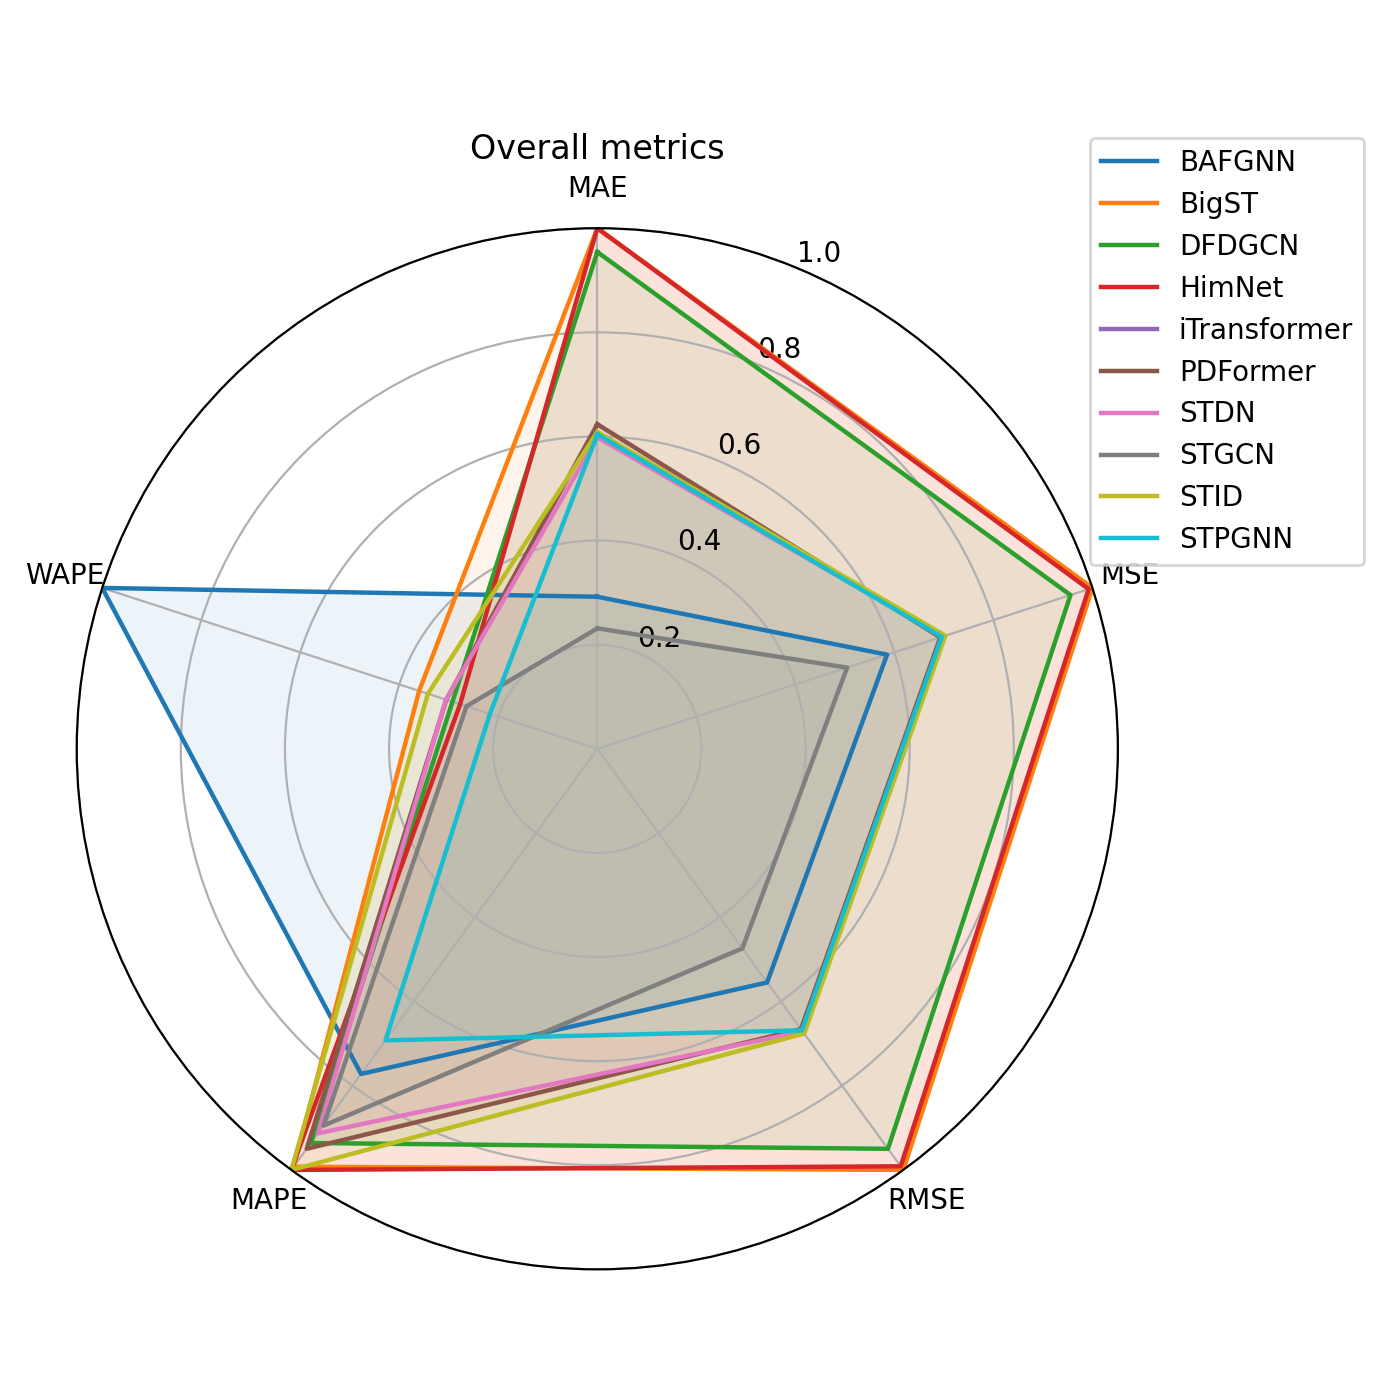
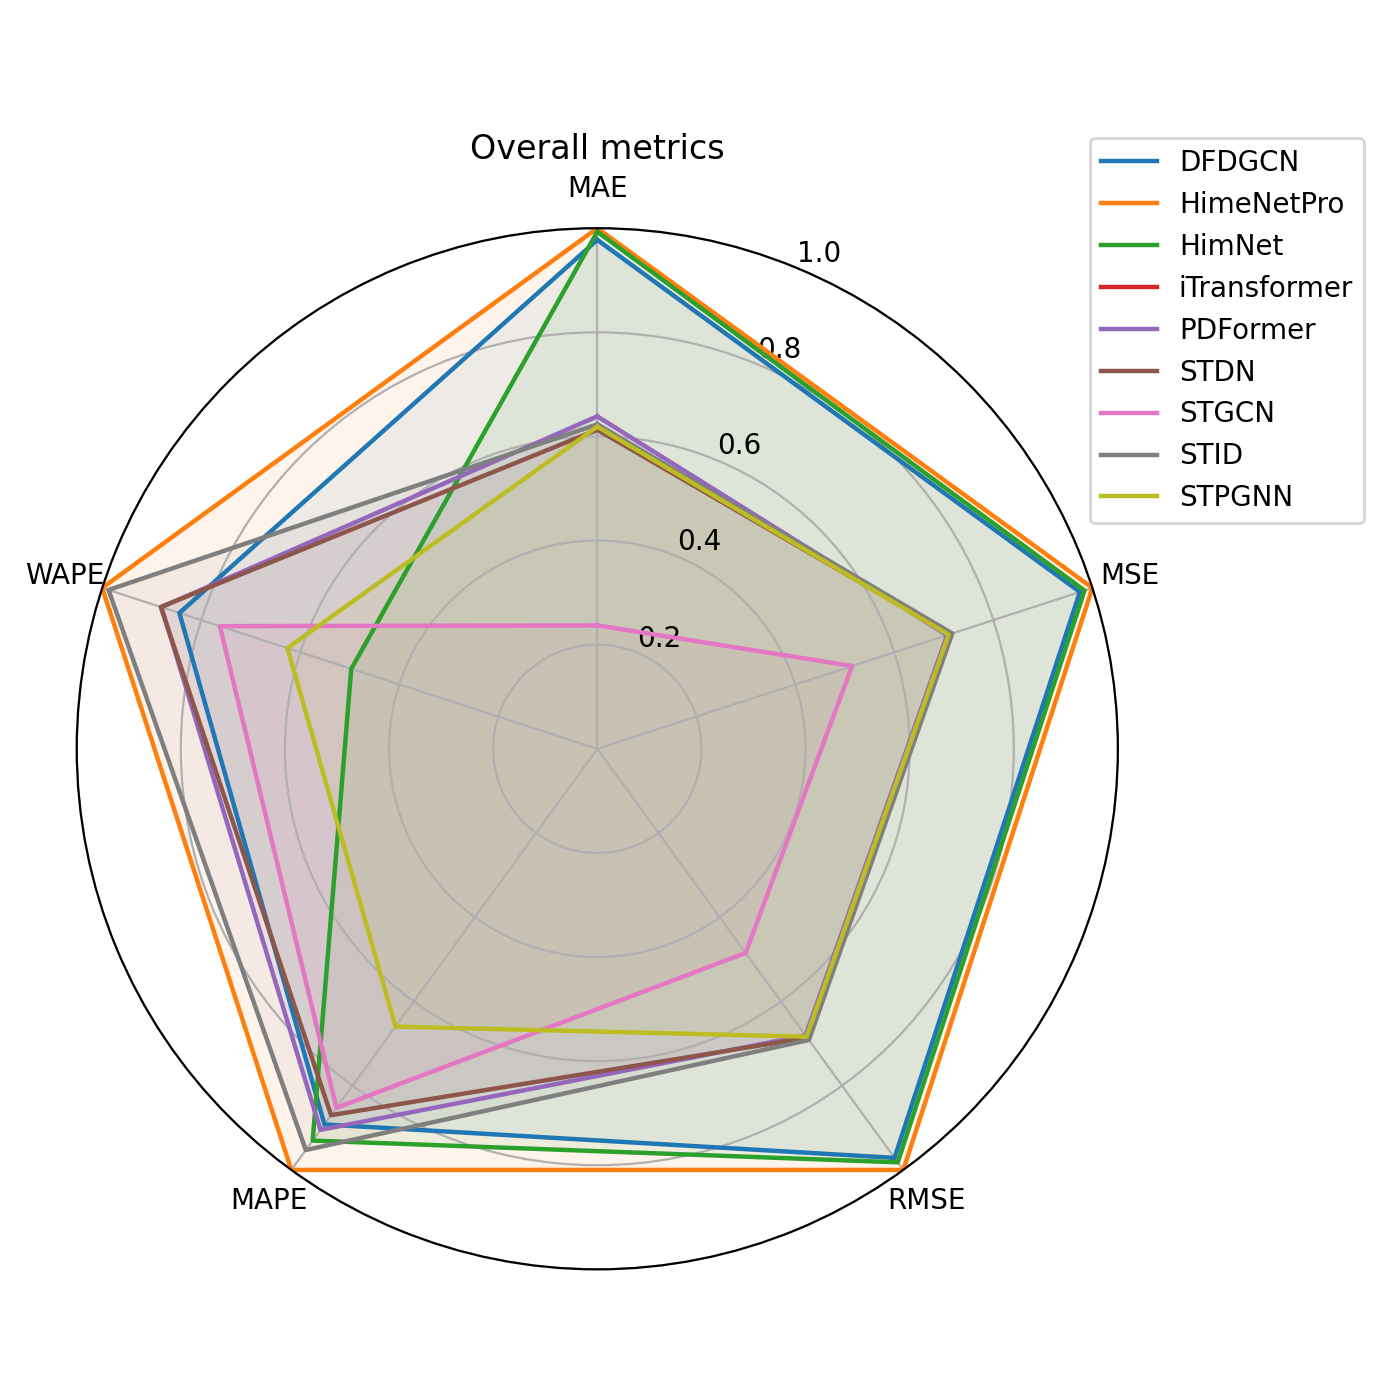
fix: 去掉无用的y_conv以免造成影响

diff --git a/model/HimNet/arch/model/HimNet.py b/model/HimNet/arch/model/HimNet.py
@@ -554,14 +554,14 @@ class HimNet(nn.Module):
     def __init__(
         self,
         num_nodes,
-        input_dim=3,
+        input_dim=1,
         output_dim=1,
         out_steps=12,
         in_steps=12,
         hidden_dim=64,
         num_layers=1,
         cheb_k=2,
-        ycov_dim=2,
+        # ycov_dim=2,
         tod_embedding_dim=8,
         dow_embedding_dim=8,
         node_embedding_dim=16,
@@ -592,7 +592,7 @@ class HimNet(nn.Module):
         self.in_steps = in_steps
         self.num_layers = num_layers
         self.cheb_k = cheb_k
-        self.ycov_dim = ycov_dim
+        # self.ycov_dim = ycov_dim
         self.node_embedding_dim = node_embedding_dim
         self.st_embedding_dim = st_embedding_dim
         self.tf_decay_steps = tf_decay_steps
@@ -634,7 +634,7 @@ class HimNet(nn.Module):
 
         self.decoder = HimDecoder(
             num_nodes=num_nodes,
-            input_dim=output_dim + ycov_dim,
+            input_dim=output_dim,
             output_dim=hidden_dim,
             cheb_k=cheb_k,
             num_layers=num_layers,
@@ -684,13 +684,10 @@ class HimNet(nn.Module):
             self.tf_decay_steps + np.exp(batches_seen / self.tf_decay_steps)
         )
 
-    def forward(self, x, y_cov, labels=None, batches_seen=None):
+    def forward(self, x, labels=None, batches_seen=None):
         """
         x:
             B, T_in, N, input_dim
-
-        y_cov:
-            B, out_steps, N, ycov_dim
 
         labels:
             optional, B, out_steps, N, output_dim
@@ -763,11 +760,7 @@ class HimNet(nn.Module):
         decoder_inputs = []
 
         for t in range(self.out_steps):
-            decoder_input_t = torch.cat(
-                [go, y_cov[:, t, ...]],
-                dim=-1,
-            )
-
+            decoder_input_t = go
             decoder_inputs.append(decoder_input_t)
 
             decoder_input_seq = torch.stack(

diff --git a/model/HimNet/arch/himnet_basicts_arch.py b/model/HimNet/arch/himnet_basicts_arch.py
@@ -33,7 +33,6 @@ class HimNet(nn.Module):
             hidden_dim=int(config.hidden_dim),
             num_layers=int(config.num_layers),
             cheb_k=int(config.cheb_k),
-            ycov_dim=int(config.ycov_dim),
             tod_embedding_dim=int(config.tod_embedding_dim),
             dow_embedding_dim=int(config.dow_embedding_dim),
             node_embedding_dim=int(config.node_embedding_dim),
@@ -72,14 +71,9 @@ class HimNet(nn.Module):
             base = torch.arange(t, device=x.device).view(1, t, 1, 1).expand(b, -1, n, -1)
             tod = (base % self.time_of_day_size) / float(self.time_of_day_size)
             dow = ((base // self.time_of_day_size) % 7).float()
-        x_in = torch.cat([value, tod.to(value.dtype), dow.to(value.dtype)], dim=-1)
+        x_in = torch.cat([value], dim=-1)
 
-        future_abs = (torch.arange(1, self.model.out_steps + 1, device=x.device).view(1, -1, 1, 1) + t - 1).expand(b, -1, n, -1)
-        y_tod = (future_abs % self.time_of_day_size) / float(self.time_of_day_size)
-        y_dow = ((future_abs // self.time_of_day_size) % 7).float()
-        y_cov = torch.cat([y_tod.to(value.dtype), y_dow.to(value.dtype)], dim=-1)
-
-        y = self.model(x_in, y_cov, labels=None, batches_seen=0)
+        y = self.model(x_in, labels=None, batches_seen=0)
         if y.dim() == 4 and y.shape[-1] == 1:
             y = y.squeeze(-1)
         return y

diff --git a/model/HimNet/config/himnet_config.py b/model/HimNet/config/himnet_config.py
@@ -12,7 +12,7 @@ class HimNetConfig(BasicTSModelConfig):
     num_nodes: Optional[int] = field(default=None)
 
     # x feature dims
-    input_dim: int = field(default=3)
+    input_dim: int = field(default=1)
     output_dim: int = field(default=1)
 
     # ----- model (graph+temporal) -----
@@ -21,7 +21,7 @@ class HimNetConfig(BasicTSModelConfig):
     cheb_k: int = field(default=2)
 
     # decoder future cov dims
-    ycov_dim: int = field(default=2)
+    ycov_dim: int = field(default=0)
 
     # embeddings
     tod_embedding_dim: int = field(default=8)